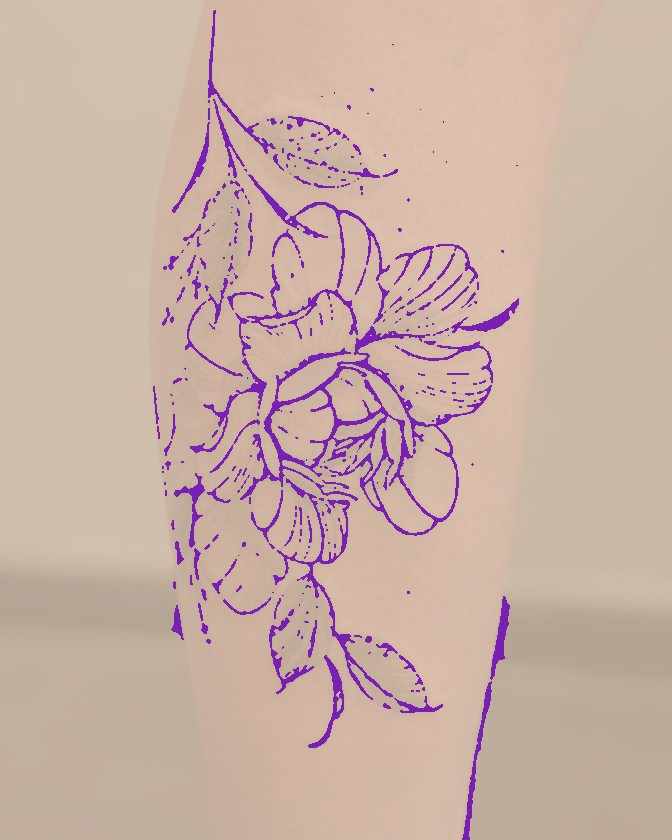
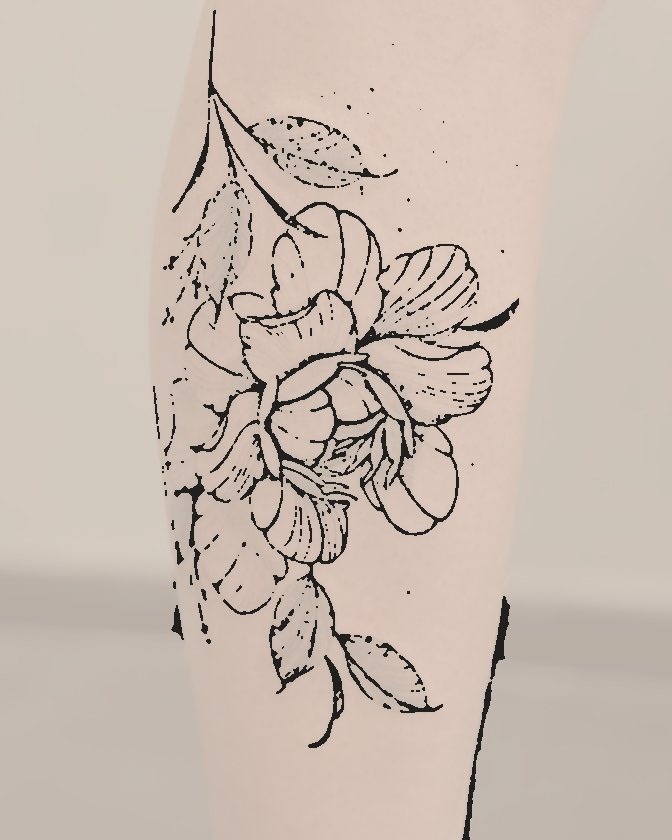
Black-and-white palette: remove purple from the site
Buttons are white with dark text and slightly rounded corners; the main
WhatsApp button gets the WhatsApp icon; the floating WhatsApp button is a
round dark button. Header signature starts as grey stencil lines before
the ink, the tattoo machine is black, and stand-in stencils are dark
linework. Purple wording is removed from the copy. Unused placeholder
artwork for works 1-3 is deleted.

Claude-Session: https://claude.ai/code/session_01AwXXR3LVyvVrtycrucWBPy

diff --git a/index.html b/index.html
@@ -23,7 +23,7 @@
   <link rel="preconnect" href="https://fonts.gstatic.com" crossorigin>
   <link href="https://fonts.googleapis.com/css2?family=Heebo:wght@400;500;900&display=swap" rel="stylesheet">
   <link rel="preload" href="assets/fonts/pirata-one-latin-400-normal.woff2" as="font" type="font/woff2" crossorigin>
-  <link rel="stylesheet" href="assets/css/style.css?v=10">
+  <link rel="stylesheet" href="assets/css/style.css?v=11">
 
   <script type="application/ld+json">
   {
@@ -114,7 +114,7 @@
         <h1 class="hero__title"><span dir="ltr">Sahar Tzaig <br>Tattoo</span><span class="sr-only">, מקעקע ברמת גן</span></h1>
         <p class="lead">קעקועים בעיצוב אישי, מהסקיצה הראשונה ועד הקו האחרון. סטודיו פרטי ברמת גן</p>
         <div class="actions">
-          <a class="btn" href="https://wa.me/972500000000?text=%D7%94%D7%99%D7%99%2C%20%D7%90%D7%A9%D7%9E%D7%97%20%D7%9C%D7%A7%D7%91%D7%95%D7%A2%20%D7%AA%D7%95%D7%A8%20%D7%9C%D7%A7%D7%A2%D7%A7%D7%95%D7%A2" target="_blank" rel="noopener">לקביעת תור בוואטסאפ</a>
+          <a class="btn" href="https://wa.me/972500000000?text=%D7%94%D7%99%D7%99%2C%20%D7%90%D7%A9%D7%9E%D7%97%20%D7%9C%D7%A7%D7%91%D7%95%D7%A2%20%D7%AA%D7%95%D7%A8%20%D7%9C%D7%A7%D7%A2%D7%A7%D7%95%D7%A2" target="_blank" rel="noopener"><svg width="22" height="22" viewBox="0 0 24 24" fill="none" stroke="currentColor" stroke-width="1.8" stroke-linecap="round" stroke-linejoin="round" aria-hidden="true"><path d="M3 21l1.7-5A8.5 8.5 0 1 1 8 19.3z"/><path d="M9 9.5c0 3 2.5 5.5 5.5 5.5l1.2-1.4-2-1-1 .8a4 4 0 0 1-2.1-2.1l.8-1-1-2z"/></svg>לקביעת תור בוואטסאפ</a>
           <a class="link" href="#work">לעבודות</a>
         </div>
       </div>
@@ -123,7 +123,7 @@
     <section class="work is-final" id="work" aria-labelledby="work-title">
       <div class="work__side">
         <h2 class="work__title" id="work-title">עבודות</h2>
-        <p class="work__note">קודם הסקיצה הסגולה, אחר כך הקעקוע. אפשר לראות את שניהם.</p>
+        <p class="work__note">קודם הסקיצה, אחר כך הקעקוע. אפשר לראות את שניהם.</p>
         <div class="work__controls">
           <div class="toggle" role="group" aria-label="תצוגה">
             <button type="button" data-view="stencil" aria-pressed="false">הסקיצה</button>
@@ -143,7 +143,7 @@
           <figure>
             <div class="work__media">
               <img class="work__final" src="assets/img/work/sahar-1.jpg" width="672" height="840" loading="lazy" alt="קעקוע פיין-ליין של אדמונית עם עלים על השוק">
-              <img class="work__stencil" src="assets/img/work/sahar-1-stencil.jpg" width="672" height="840" loading="lazy" alt="הסטנסיל הסגול של האדמונית, לפני הקעקוע">
+              <img class="work__stencil" src="assets/img/work/sahar-1-stencil.jpg" width="672" height="840" loading="lazy" alt="הסטנסיל של האדמונית, לפני הקעקוע">
             </div>
             <figcaption>אדמונית · פיין-ליין · שוק</figcaption>
           </figure>
@@ -152,7 +152,7 @@
           <figure>
             <div class="work__media">
               <img class="work__final" src="assets/img/work/sahar-2.jpg" width="820" height="1025" loading="lazy" alt="קעקוע בלאק-וורק של סוסון ים עם גולגולת על האמה">
-              <img class="work__stencil" src="assets/img/work/sahar-2-stencil.jpg" width="820" height="1025" loading="lazy" alt="הסטנסיל הסגול של סוסון הים, לפני הקעקוע">
+              <img class="work__stencil" src="assets/img/work/sahar-2-stencil.jpg" width="820" height="1025" loading="lazy" alt="הסטנסיל של סוסון הים, לפני הקעקוע">
             </div>
             <figcaption>סוסון ים וגולגולת · בלאק-וורק · אמה</figcaption>
           </figure>
@@ -161,7 +161,7 @@
           <figure>
             <div class="work__media">
               <img class="work__final" src="assets/img/work/sahar-3.jpg" width="808" height="1010" loading="lazy" alt="קעקוע פיין-ליין של במבי עם פרחים על האמה">
-              <img class="work__stencil" src="assets/img/work/sahar-3-stencil.jpg" width="808" height="1010" loading="lazy" alt="הסטנסיל הסגול של במבי והפרחים, לפני הקעקוע">
+              <img class="work__stencil" src="assets/img/work/sahar-3-stencil.jpg" width="808" height="1010" loading="lazy" alt="הסטנסיל של במבי והפרחים, לפני הקעקוע">
             </div>
             <figcaption>במבי ופרחים · פיין-ליין · אמה</figcaption>
           </figure>
@@ -170,7 +170,7 @@
           <figure>
             <div class="work__media">
               <img class="work__final" src="assets/img/work/work-4.svg" width="1200" height="1500" loading="lazy" alt="קעקוע כתב יד על עצם הבריח">
-              <img class="work__stencil" src="assets/img/work/work-4-stencil.svg" width="1200" height="1500" loading="lazy" alt="הסטנסיל הסגול של הכתב, לפני הקעקוע">
+              <img class="work__stencil" src="assets/img/work/work-4-stencil.svg" width="1200" height="1500" loading="lazy" alt="הסטנסיל של הכתב, לפני הקעקוע">
             </div>
             <figcaption>כתב יד · עצם הבריח</figcaption>
           </figure>
@@ -179,7 +179,7 @@
           <figure>
             <div class="work__media">
               <img class="work__final" src="assets/img/work/work-5.svg" width="1200" height="1500" loading="lazy" alt="קעקוע בלאק-וורק של נחש לאורך הגב">
-              <img class="work__stencil" src="assets/img/work/work-5-stencil.svg" width="1200" height="1500" loading="lazy" alt="הסטנסיל הסגול של הנחש, לפני הקעקוע">
+              <img class="work__stencil" src="assets/img/work/work-5-stencil.svg" width="1200" height="1500" loading="lazy" alt="הסטנסיל של הנחש, לפני הקעקוע">
             </div>
             <figcaption>נחש · בלאק-וורק · גב</figcaption>
           </figure>
@@ -188,7 +188,7 @@
           <figure>
             <div class="work__media">
               <img class="work__final" src="assets/img/work/work-6.svg" width="1200" height="1500" loading="lazy" alt="קעקוע פיין-ליין של ירח על פרק היד">
-              <img class="work__stencil" src="assets/img/work/work-6-stencil.svg" width="1200" height="1500" loading="lazy" alt="הסטנסיל הסגול של הירח על פרק היד, לפני הקעקוע">
+              <img class="work__stencil" src="assets/img/work/work-6-stencil.svg" width="1200" height="1500" loading="lazy" alt="הסטנסיל של הירח על פרק היד, לפני הקעקוע">
             </div>
             <figcaption>ירח · פיין-ליין · פרק היד</figcaption>
           </figure>
@@ -225,7 +225,7 @@
         </li>
         <li data-reveal-group>
           <span class="how__verb" data-reveal>מקעקעים</span>
-          <p data-reveal>הסטנסיל הסגול עולה על העור, בודקים יחד שהכל במקום, ורק אז מתחילים. יוצאים עם הוראות טיפול ברורות.</p>
+          <p data-reveal>הסטנסיל עולה על העור, בודקים יחד שהכל במקום, ורק אז מתחילים. יוצאים עם הוראות טיפול ברורות.</p>
         </li>
       </ol>
     </section>
@@ -301,6 +301,6 @@
 
   <script src="assets/vendor/gsap.min.js" defer></script>
   <script src="assets/vendor/ScrollTrigger.min.js" defer></script>
-  <script src="assets/js/main.js?v=10" defer></script>
+  <script src="assets/js/main.js?v=11" defer></script>
 </body>
 </html>

diff --git a/assets/css/style.css b/assets/css/style.css
@@ -13,13 +13,14 @@
   --surface-2: #1f1d1b;
   --ink: #e8e6e1;
   --muted: #aeaba5;
-  --accent: #8e24d6;       /* סגול של סטנסיל */
-  --accent-hover: #a240e6;
+  --accent: #ffffff;       /* שחור-לבן: הכפתורים לבנים */
+  --accent-hover: #e4e2dd;
   --bar-bg: #ffffff;       /* רקע הפס העליון */
-  --stencil: #7a1fb4;      /* קווי הסקיצה על העור */
+  --stencil: #9a9792;      /* קווי הסקיצה לפני הדיו */
   --tattoo-ink: #0b0b0b;
   --bar-h: clamp(64px, 6.4vw, 92px);
-  --accent-ink: #ffffff;
+  --accent-ink: #0b0b0b;
+  --radius: 6px;
 
   --font: 'Heebo', system-ui, sans-serif;
   --step-small: clamp(0.875rem, 0.85rem + 0.1vw, 0.9375rem);
@@ -50,7 +51,7 @@ figure { margin: 0; }
 h1, h2, h3, p { margin: 0; }
 a { color: inherit; }
 ::selection { background: var(--accent); color: var(--accent-ink); }
-:focus-visible { outline: 3px solid var(--accent-hover); outline-offset: 3px; }
+:focus-visible { outline: 3px solid #ffffff; outline-offset: 3px; box-shadow: 0 0 0 6px #0b0b0b; }
 
 .skip {
   position: absolute; inset-inline-start: var(--m); top: -100px;
@@ -69,7 +70,7 @@ a { color: inherit; }
 /* ===== Buttons & links ===== */
 .btn {
   display: inline-flex; align-items: center; justify-content: center;
-  min-height: 56px; padding: 0 32px;
+  min-height: 56px; padding: 0 32px; gap: 12px; border-radius: var(--radius);
   background: var(--accent); color: var(--accent-ink);
   font-weight: 500; text-decoration: none;
   transition: background-color .2s var(--ease), transform .2s var(--ease);
@@ -77,12 +78,15 @@ a { color: inherit; }
 .btn:hover { background: var(--accent-hover); }
 .btn:active { transform: scale(.97); }
 .btn--small { min-height: 44px; padding: 0 22px; font-size: var(--step-small); }
+.bar .btn { background: var(--tattoo-ink); color: #ffffff; }
+.bar .btn:hover { background: #2c2a27; }
+.btn svg { flex: none; }
 
 .link {
   text-decoration: underline; text-underline-offset: 6px; text-decoration-thickness: 2px;
   transition: text-decoration-color .2s var(--ease);
 }
-.link:hover { text-decoration-color: var(--accent-hover); }
+.link:hover { text-decoration-color: var(--muted); }
 
 /* ===== Header: נשאר למעלה; החתימה מתמלאת בדיו לאורך כל הגלילה ===== */
 .bar {
@@ -117,7 +121,7 @@ a { color: inherit; }
 .hand.is-working .hand__buzz { animation: buzz .06s steps(2) infinite; }
 @keyframes buzz { 50% { transform: translate(.6px, -.4px); } }
 .hand__cable { fill: none; stroke: #2c2a27; stroke-width: 4; stroke-linecap: round; }
-.hand__body { fill: var(--accent); stroke: var(--tattoo-ink); stroke-width: 1.5; }
+.hand__body { fill: #2c2a27; stroke: var(--tattoo-ink); stroke-width: 1.5; }
 .hand__ring { fill: #c9c4bb; stroke: var(--tattoo-ink); stroke-width: 1.2; }
 .hand__grip { fill: #2c2a27; stroke: var(--tattoo-ink); stroke-width: 1.5; }
 .hand__knurl { stroke: #4a4743; stroke-width: 1.2; }
@@ -215,7 +219,7 @@ a { color: inherit; }
 .contact__phone {
   background: var(--accent); color: var(--accent-ink); text-decoration: none;
   font-weight: 900; font-size: var(--step-head); line-height: 1;
-  letter-spacing: -0.03em; padding: 20px 28px;
+  letter-spacing: -0.03em; padding: 20px 28px; border-radius: var(--radius);
   transition: background-color .2s var(--ease), transform .2s var(--ease);
 }
 .contact__phone:hover { background: var(--accent-hover); }
@@ -232,10 +236,11 @@ a { color: inherit; }
 .float-wa {
   position: fixed; left: 20px; bottom: 20px; z-index: 50;
   width: 60px; height: 60px; display: flex; align-items: center; justify-content: center;
-  background: var(--accent); color: var(--accent-ink);
+  border-radius: 50%; background: #141414; color: #ffffff; border: 1px solid #3a3836;
+  box-shadow: 0 6px 18px rgba(0, 0, 0, .45);
   transition: background-color .2s var(--ease), transform .2s var(--ease);
 }
-.float-wa:hover { background: var(--accent-hover); }
+.float-wa:hover { background: #262422; }
 .float-wa:active { transform: scale(.94); }
 
 /* ===== Phone ===== */

diff --git a/assets/js/main.js b/assets/js/main.js
@@ -4,7 +4,7 @@
   var work = document.getElementById('work');
   var items = work ? Array.prototype.slice.call(work.querySelectorAll('.work__item')) : [];
 
-  // מעבר בין הסקיצה (הסטנסיל הסגול) לקעקוע הגמור
+  // מעבר בין הסקיצה (הסטנסיל) לקעקוע הגמור
   function setView(view) {
     work.classList.toggle('is-stencil', view === 'stencil');
     work.classList.toggle('is-final', view !== 'stencil');
@@ -51,7 +51,7 @@
   var gsap = window.gsap;
   gsap.registerPlugin(window.ScrollTrigger);
 
-  // החתימה למעלה: סקיצה סגולה -> קווי דיו -> מילוי בדיו, לאורך כל הגלילה של העמוד
+  // החתימה למעלה: סקיצה אפורה -> קווי דיו -> מילוי בדיו, לאורך כל הגלילה של העמוד
   var sigLines = document.querySelectorAll('.sig__line path');
   var clip = document.querySelector('.sig__clip');
   if (sigLines.length && clip) {

diff --git a/README.md b/README.md
@@ -17,6 +17,6 @@
 - כל טקסט בסוגריים מרובעים: `[סכום]`, `[username]` ועוד
 - מספר הוואטסאפ: `972500000000` בקישורי `wa.me` (בפורמט בינלאומי, בלי 0 בהתחלה), ו-`050-000-0000` בטקסט
 - הכתובת והשעות, גם בגוף העמוד וגם בבלוק `application/ld+json` שבראש `index.html`
-- תמונות העבודות: לכל עבודה זוג תמונות באותה זווית, `work-N.jpg` (הקעקוע) ו-`work-N-stencil.jpg` (הסטנסיל הסגול), ביחס 4:5
+- תמונות העבודות: לכל עבודה זוג תמונות באותה זווית, `work-N.jpg` (הקעקוע) ו-`work-N-stencil.jpg` (הסטנסיל), ביחס 4:5
 - `assets/img/hero.svg` ו-`assets/img/portrait.svg` בתמונות אמיתיות, ואפשר להחליף את התמונה הראשית בסרטון קצר (יש הערה במקום הנכון ב-`index.html`)
 - כשיהיה דומיין: לעדכן את הכתובת ב-`canonical`, ב-`og:url`, ב-`robots.txt` וב-`sitemap.xml`
